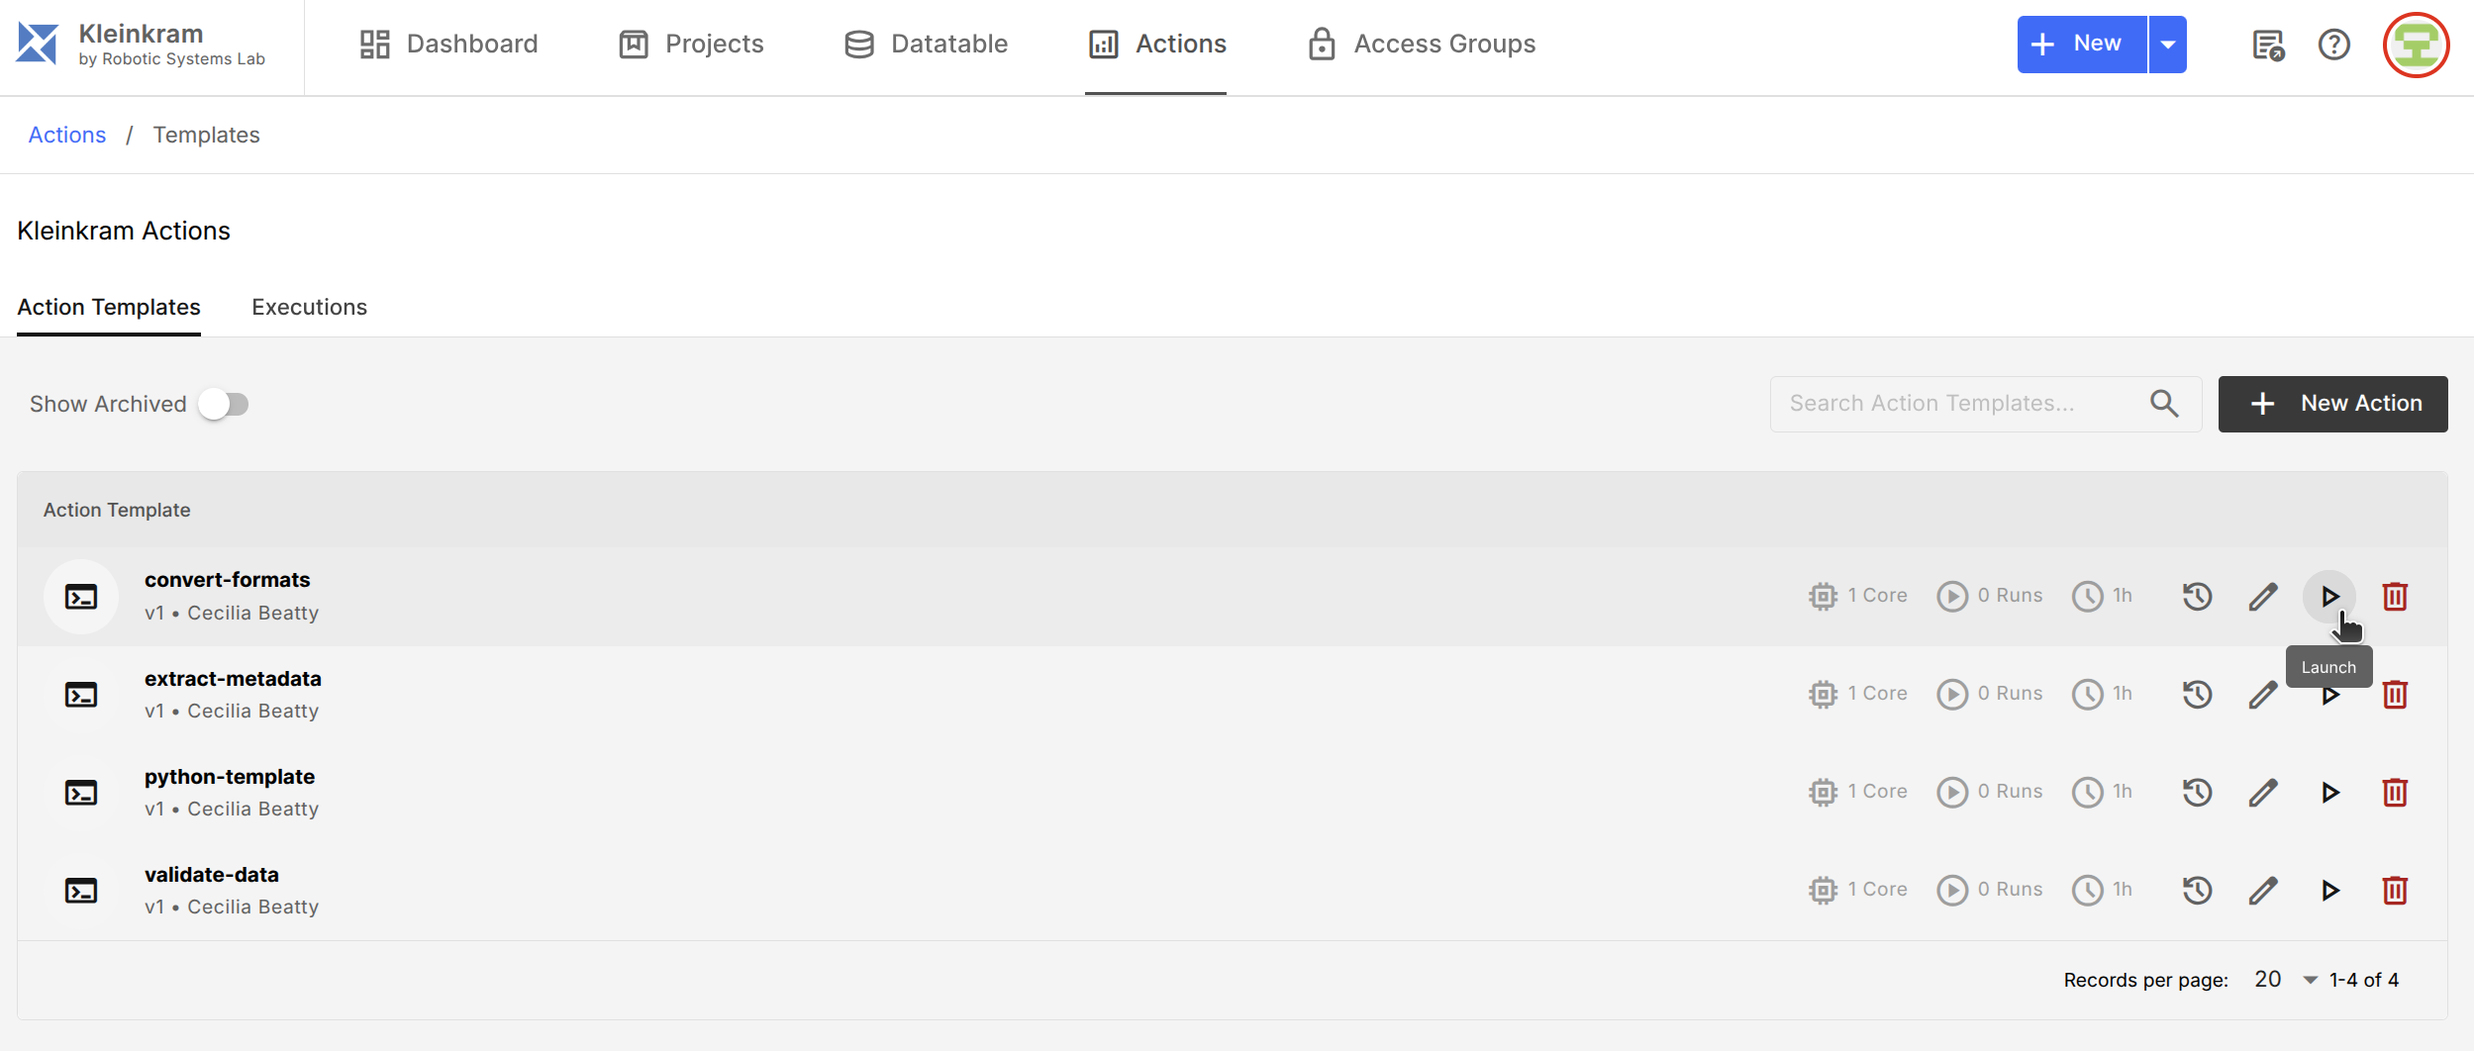
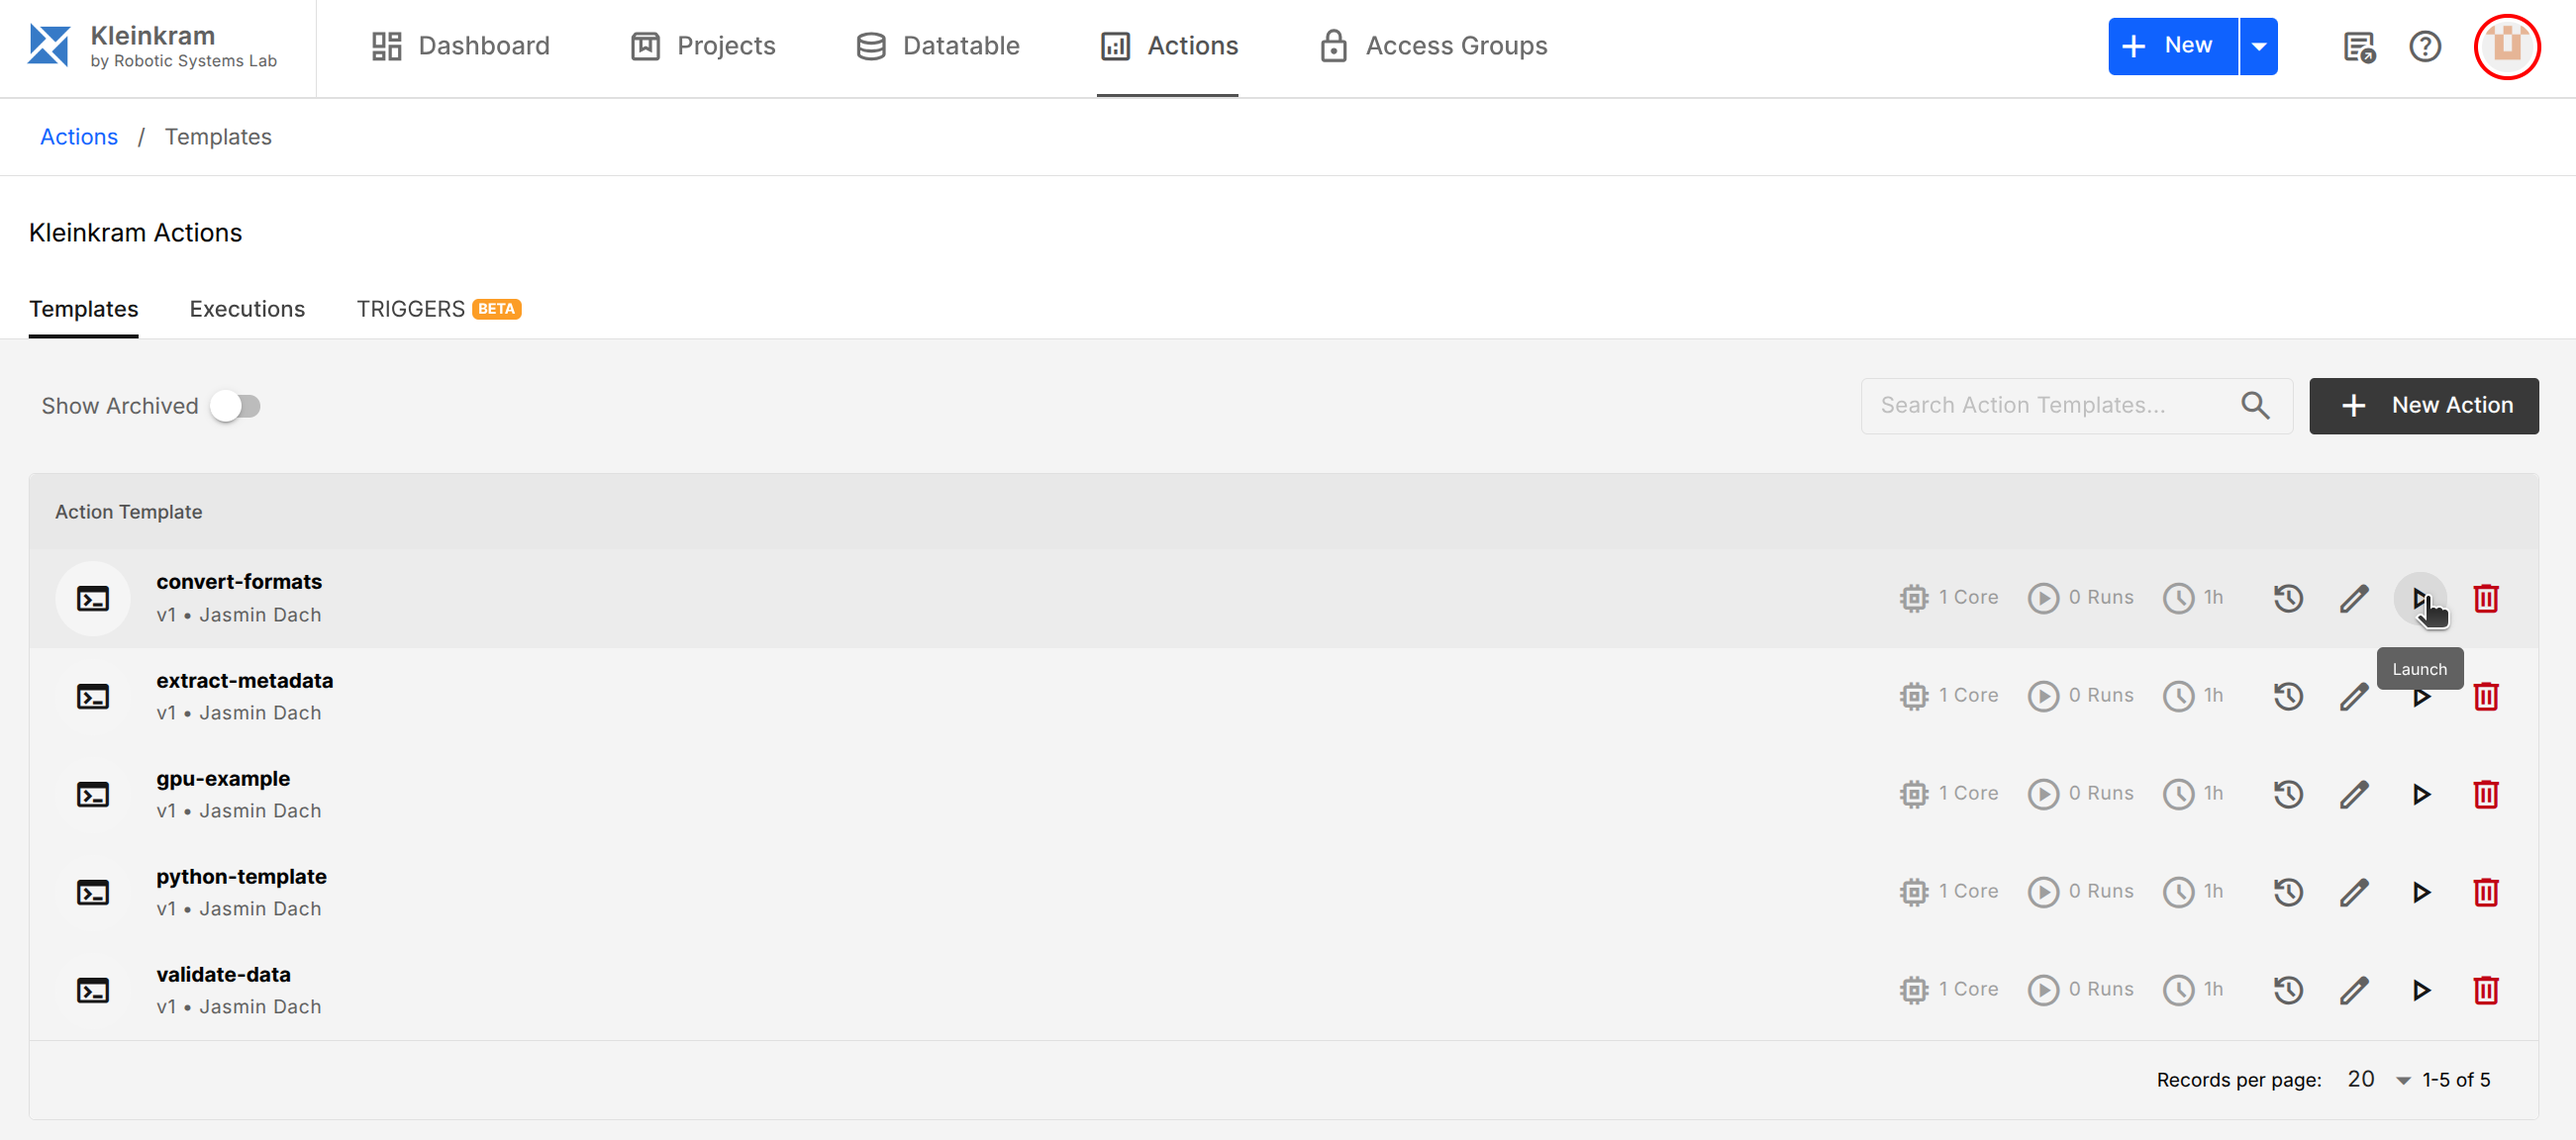
feat: add documentation for action triggers

diff --git a/docs/usage/actions/triggers.md b/docs/usage/actions/triggers.md
@@ -1,0 +1,61 @@
+# Action Triggers
+
+Action triggers allow you to automate the execution of your actions based on specific events or schedules.
+
+![Action Trigger](../../assets/action_trigger.png)
+
+Kleinkram supports three types of triggers:
+
+| Trigger Type          | Description    | Example Use Case                                                          |
+| --------------------- | -------------- | ------------------------------------------------------------------------- |
+| Cron Triggers         | Schedule-based | Generate a report with summary statistics daily at midnight.              |
+| Webhook Triggers      | Event-based    | Run a verification action as soon as a new docker image version is pushed |
+| File Pattern Triggers | Data-based     | Run a post-processing action as soon as a new file is uploaded            |
+
+## Cron Triggers
+
+Cron triggers allow you to schedule actions to run periodically at fixed times or intervals. This is useful for regular maintenance tasks, nightly reports, or periodic data synchronization.
+
+To set up a cron trigger:
+
+1. Go to the **Triggers** tab.
+2. Click **Add Trigger** and select **Cron**.
+3. Enter a valid cron expression (e.g., `0 0 * * *` for daily at midnight).
+
+::: tip Cron Syntax
+Kleinkram uses standard cron syntax. You can use sites like [crontab.guru](https://crontab.guru/) to help generate expressions.
+:::
+
+## Webhook Triggers
+
+Webhook triggers allow external systems to trigger Kleinkram actions via HTTP requests. This enables integration with CI/CD pipelines, external data sources, or other tools in your ecosystem.
+
+To set up a webhook trigger:
+
+1. Go to the **Triggers** tab.
+2. Click **Add Trigger** and select **Webhook**.
+3. Kleinkram will generate a unique **Webhook URL** for this trigger.
+4. You can now send a `POST` request to this URL to trigger the action.
+
+### Payload
+
+You can pass data to the action by including a JSON body in your POST request. This data will be available to the action environment.
+
+```bash
+curl -X POST https://your-kleinkram-instance.com/api/v1/hooks/trigger/YOUR_WEBHOOK_ID
+```
+
+## File Pattern Triggers
+
+File pattern triggers allow you to automatically run an action when a file matching a specific pattern is uploaded or modified within a mission. This is perfect for processing pipelines, such as automatically converting new bag files or analyzing newly uploaded images.
+
+To set up a file pattern trigger:
+
+1. Go to the **Triggers** tab.
+2. Click **Add Trigger** and select **File Pattern**.
+3. Enter a **glob pattern** to match files (e.g., `2026-*-*_mission-*.mcap`).
+4. The action will now trigger automatically whenever a matching file is uploaded to any mission the action has access to.
+
+::: tip
+You can use `*` to match any character sequence in a file name.
+:::

diff --git a/docs/usage/actions/use-actions.md b/docs/usage/actions/use-actions.md
@@ -21,6 +21,10 @@ within that mission. For your convenience, you can also access files of other mi
 Actions are queued and executed on hosted action runners within your Kleinkram instance. You can monitor the progress of
 your actions in the "Executions" tab.
 
+### Automating Actions
+
+You can automate action execution using Triggers. Triggers can schedule actions (Cron), run them on external events (Webhook), or react to file uploads (File Pattern). Learn more in the [Action Triggers](triggers.md) guide.
+
 ## Core Concepts of Kleinkram Actions
 
 ::: tip Action Templates vs Action Executions
